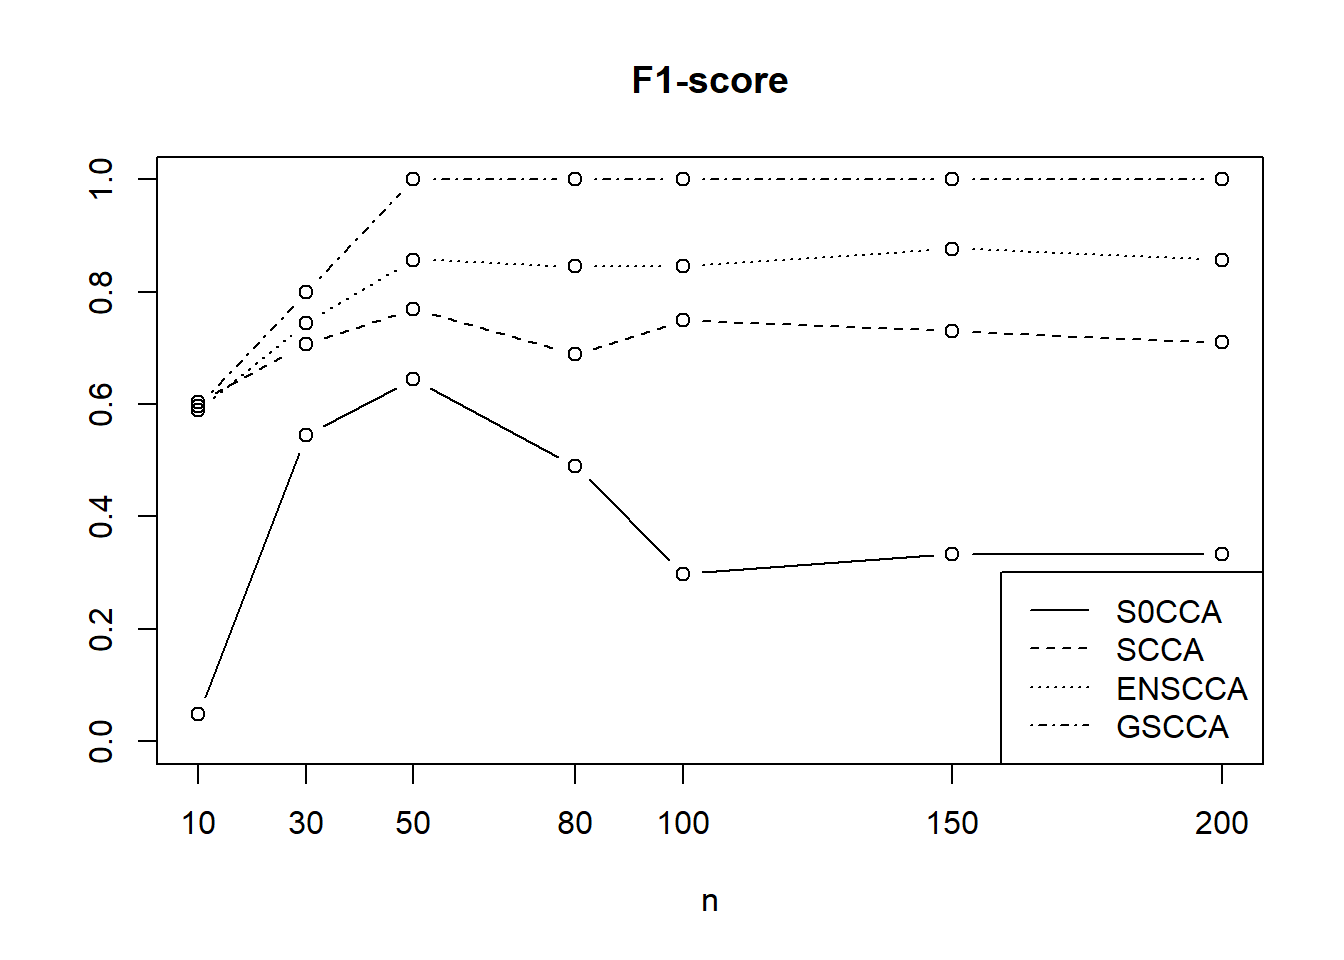
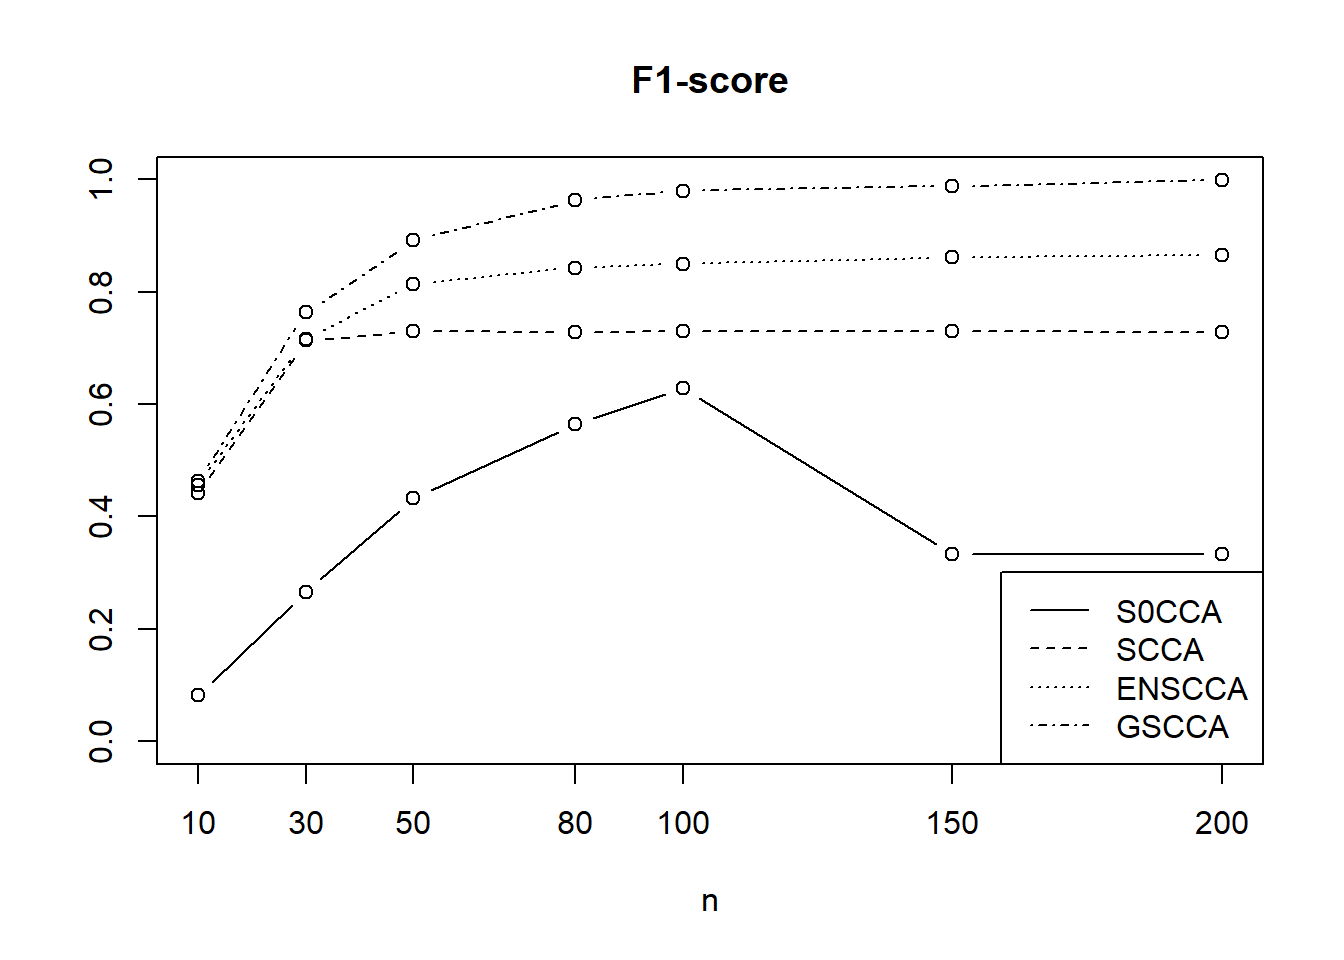
Build site.

diff --git a/docs/model6.html b/docs/model6.html
@@ -323,7 +323,7 @@ shared across the workflowr files. -->
 <p><strong>Last updated:</strong> 2017-12-29</p>
 <!-- Insert the code version (Git commit SHA1) if Git repository exists and R
  package git2r is installed -->
-<p><strong>Code version:</strong> ee0bb8f</p>
+<p><strong>Code version:</strong> bf2aa26</p>
 <!-- Add your analysis here -->
 <p>Model 6 examines the effect of sample size.</p>
 <pre class="r"><code>library(scca)
@@ -339,19 +339,12 @@ model6S1=c()
 model6elnet=c()
 model6gscca=c()
 for(n in 1:length(nlist)){
-  print(n)
-  model6S0=rbind(model6S0,finals(s0cca_simu(1,u,v,nlist[n],&#39;normal&#39;,1,sigma_x,sigma_y)))
-  model6S1=rbind(model6S1,finals(s1cca_simu(1,u,v,nlist[n],&#39;normal&#39;,1,sigma_x,sigma_y)))
-  model6elnet=rbind(model6elnet,finals(elnet.cca.simu(1,u,v,nlist[n],&#39;normal&#39;,1,sigma_x,sigma_y)))
-  model6gscca=rbind(model6gscca,finals(gscca.simu.normal(1,edges,u,v,nlist[n],&#39;normal&#39;,1,sigma_x,sigma_y)))
+  #print(n)
+  model6S0=rbind(model6S0,finals(s0cca_simu(100,u,v,nlist[n],&#39;normal&#39;,1,sigma_x,sigma_y)))
+  model6S1=rbind(model6S1,finals(s1cca_simu(100,u,v,nlist[n],&#39;normal&#39;,1,sigma_x,sigma_y)))
+  model6elnet=rbind(model6elnet,finals(elnet.cca.simu(100,u,v,nlist[n],&#39;normal&#39;,1,sigma_x,sigma_y)))
+  model6gscca=rbind(model6gscca,finals(gscca.simu.normal(100,edges,u,v,nlist[n],&#39;normal&#39;,1,sigma_x,sigma_y)))
 }</code></pre>
-<pre><code>[1] 1
-[1] 2
-[1] 3
-[1] 4
-[1] 5
-[1] 6
-[1] 7</code></pre>
 <pre class="r"><code>plot(nlist,model6S0[,1],xlab=expression(n),ylab = &#39;&#39;,main = &#39;TPR and FPR for selecting X&#39;,type = &#39;b&#39;,xlim=c(10,255),ylim = c(0,1), xaxt=&quot;n&quot;)
 v1=nlist
 v2=paste(nlist)
@@ -388,7 +381,9 @@ lines(nlist,model6S1[,17],type = &#39;b&#39;,lty=2)
 lines(nlist,model6elnet[,17],type = &#39;b&#39;,lty=3)
 lines(nlist,model6gscca[,17],type = &#39;b&#39;,lty=4)
 legend(&#39;bottomright&#39;,legend = c(&#39;S0CCA&#39;,&#39;SCCA&#39;,&#39;ENSCCA&#39;,&#39;GSCCA&#39;),lty=c(1,2,3,4))</code></pre>
-<p><img src="figure/model6.Rmd/unnamed-chunk-4-1.png" width="672" style="display: block; margin: auto;" /> ## Session information</p>
+<p><img src="figure/model6.Rmd/unnamed-chunk-4-1.png" width="672" style="display: block; margin: auto;" /></p>
+<div id="session-information" class="section level2">
+<h2>Session information</h2>
 <!-- Insert the session information into the document -->
 <pre class="r"><code>sessionInfo()</code></pre>
 <pre><code>R version 3.4.0 (2017-04-21)
@@ -418,6 +413,7 @@ loaded via a namespace (and not attached):
  [9] htmltools_0.3.5  iterators_1.0.8  yaml_2.1.16      rprojroot_1.3-1 
 [13] digest_0.6.13    codetools_0.2-15 evaluate_0.10    rmarkdown_1.8   
 [17] stringi_1.1.6    compiler_3.4.0   backports_1.0.5  pkgconfig_2.0.1 </code></pre>
+</div>
 
 <!-- Adjust MathJax settings so that all math formulae are shown using
 TeX fonts only; see
